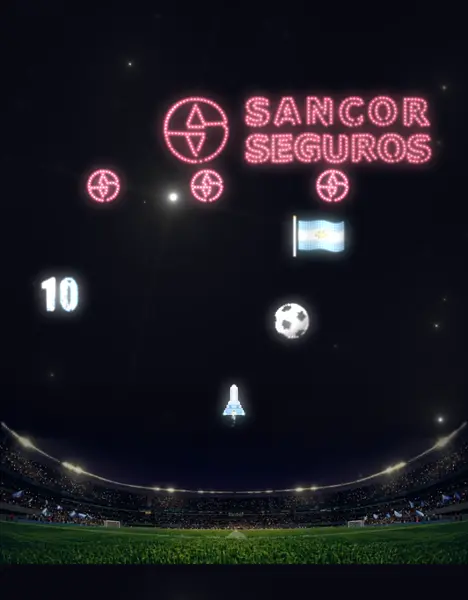
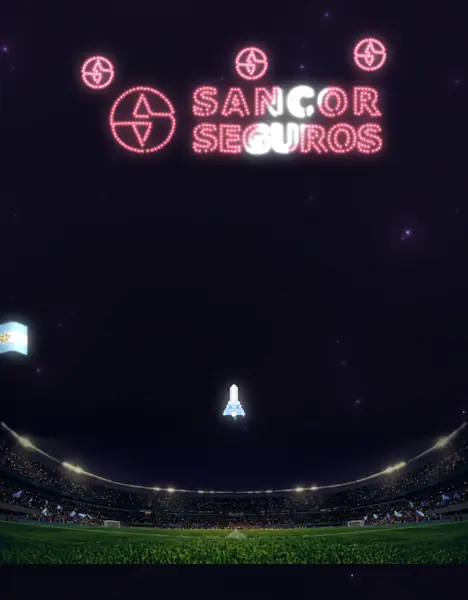
Cielo por dificultad: 5 tramos de color (blanco, celeste, violeta, naranja, rojo) con glow, densidad, velocidad y titileo graduales; sin flares; capturas de niveles actualizadas
Claude-Session: https://claude.ai/code/session_016QSMpeYCF8eRxitQgLEdpS

diff --git a/index.html b/index.html
@@ -683,6 +683,9 @@ uniform float uMouseActiveFactor;
 uniform float uAutoCenterRepulsion;
 uniform bool uTransparent;
 uniform float uLightMode;
+uniform vec3 uTint;
+uniform float uTintMix;
+uniform float uHaze;
 
 varying vec2 vUv;
 
@@ -741,8 +744,7 @@ vec3 StarLayer(vec2 uv) {
       vec2 si = id + vec2(float(x), float(y));
       float seed = Hash21(si);
       float size = fract(seed * 345.32);
-      float glossLocal = tri(uStarSpeed / (PERIOD * seed + 1.0));
-      float flareSize = smoothstep(0.9, 1.0, size) * glossLocal;
+      float flareSize = 0.0; // sin destellos en cruz (flares)
 
       float red = smoothstep(STAR_COLOR_CUTOFF, 1.0, Hash21(si + 1.0)) + STAR_COLOR_CUTOFF;
       float blu = smoothstep(STAR_COLOR_CUTOFF, 1.0, Hash21(si + 3.0)) + STAR_COLOR_CUTOFF;
@@ -754,6 +756,7 @@ vec3 StarLayer(vec2 uv) {
       float sat = length(base - vec3(dot(base, vec3(0.299, 0.587, 0.114)))) * uSaturation;
       float val = max(max(base.r, base.g), base.b);
       base = hsv2rgb(vec3(hue, sat, val));
+      base = mix(base, uTint * (0.8 + 0.5 * val), uTintMix);
 
       vec2 pad = vec2(tris(seed * 34.0 + uTime * uSpeed / 10.0), tris(seed * 38.0 + uTime * uSpeed / 30.0)) - 0.5;
 
@@ -807,6 +810,8 @@ void main() {
     col += StarLayer(uv * scale + i * 453.32) * fade;
   }
 
+  col += uTint * uHaze * smoothstep(0.2, 1.0, vUv.y); // bruma del color del tramo, más fuerte arriba
+
   if (uLightMode > 0.5) {
     float energy = max(max(col.r, col.g), col.b);
     float coverage = clamp(smoothstep(0.0, 0.42, energy) * 0.92, 0.0, 0.92);
@@ -840,7 +845,7 @@ if (gl) {
     const U = n => gl.getUniformLocation(prog, n);
     galaxy = { u: {} };
     ['uTime','uResolution','uFocal','uRotation','uStarSpeed','uDensity','uHueShift','uSpeed','uMouse','uGlowIntensity','uSaturation','uMouseRepulsion',
-     'uTwinkleIntensity','uRotationSpeed','uRepulsionStrength','uMouseActiveFactor','uAutoCenterRepulsion','uTransparent','uLightMode'].forEach(n => galaxy.u[n] = U(n));
+     'uTwinkleIntensity','uRotationSpeed','uRepulsionStrength','uMouseActiveFactor','uAutoCenterRepulsion','uTransparent','uLightMode','uTint','uTintMix','uHaze'].forEach(n => galaxy.u[n] = U(n));
     gl.uniform2f(galaxy.u.uFocal, .5, .5); gl.uniform2f(galaxy.u.uRotation, 1, 0);
     gl.uniform1f(galaxy.u.uDensity, .4); gl.uniform1f(galaxy.u.uSpeed, .1); gl.uniform1f(galaxy.u.uGlowIntensity, .1);
     gl.uniform1f(galaxy.u.uSaturation, 0); gl.uniform1i(galaxy.u.uMouseRepulsion, 0); gl.uniform1f(galaxy.u.uTwinkleIntensity, 1);
@@ -850,6 +855,15 @@ if (gl) {
 }
 addEventListener('pointermove', e => { if (state !== 'menu') return; /* el mouse solo mueve el Galaxy en el menú, no en los niveles */ /* Galaxy sin interacción con el mouse */ }, { passive: true });
 document.addEventListener('mouseleave', () => { galaxyState.targetActive = 0; });
+// Cielo por dificultad: 5 tramos de 4 niveles (blanco → celeste → violeta → naranja → rojo). Cambia suave entre tramos.
+const SKY = [
+  { tint: [1, 1, 1],      mix: 0, glow: .1,  speed: .1,  star: 1,   twinkle: 1,    density: .3,  haze: 0 },
+  { tint: [.4, .78, 1],   mix: 1, glow: .125, speed: .12, star: 1.4, twinkle: 1,    density: .325, haze: .05 },
+  { tint: [.7, .45, 1],   mix: 1, glow: .15, speed: .14, star: 1.8, twinkle: 1.1,  density: .35, haze: .06 },
+  { tint: [1, .55, .15],  mix: 1, glow: .175, speed: .17, star: 2.3, twinkle: 1.25, density: .375, haze: .07 },
+  { tint: [1, .18, .15],  mix: 1, glow: .2, speed: .2,  star: 3,   twinkle: 1.45, density: .4, haze: .09 }];
+const skyNow = { ...SKY[0], tint: [...SKY[0].tint] }; let skyStarT = 0, skyLastT = 0;
+const skyTier = () => state === 'menu' ? 0 : Math.min(4, Math.floor((Math.max(1, wave) - 1) / 4));
 let perf = 0; // calidad: 0 normal, 1 sin bloom y fondo a menos fps, 2 además resolución menor
 function resizeBg() {
   const cw0 = bgc.clientWidth || 1, ch0 = bgc.clientHeight || 1, d = Math.min(devicePixelRatio || 1, 1, Math.sqrt((perf ? 3.5e5 : 6.5e5) / (cw0 * ch0))); // el shader es lo más caro: se dibuja a menor resolución
@@ -860,7 +874,14 @@ addEventListener('resize', resizeBg); resizeBg();
 function drawBg(t) {
   if (!galaxy) return;
   const gs = galaxyState; gs.mouse[0] += (gs.target[0] - gs.mouse[0]) * .05; gs.mouse[1] += (gs.target[1] - gs.mouse[1]) * .05; gs.active += (gs.targetActive - gs.active) * .05;
-  gl.uniform1f(galaxy.u.uTime, t); gl.uniform1f(galaxy.u.uStarSpeed, t * .01);
+  const sk = SKY[skyTier()], dt = Math.min(.25, Math.max(0, t - skyLastT)), k = 1 - Math.exp(-dt * 1.5); skyLastT = t; // transición de ~2 s entre tramos
+  for (const n of ['mix', 'glow', 'speed', 'star', 'twinkle', 'density', 'haze']) skyNow[n] += (sk[n] - skyNow[n]) * k;
+  for (let i = 0; i < 3; i++) skyNow.tint[i] += (sk.tint[i] - skyNow.tint[i]) * k;
+  skyStarT += dt * .01 * skyNow.star;
+  gl.uniform3f(galaxy.u.uTint, skyNow.tint[0], skyNow.tint[1], skyNow.tint[2]); gl.uniform1f(galaxy.u.uTintMix, skyNow.mix); gl.uniform1f(galaxy.u.uHaze, skyNow.haze);
+  gl.uniform1f(galaxy.u.uGlowIntensity, skyNow.glow); gl.uniform1f(galaxy.u.uSpeed, skyNow.speed);
+  gl.uniform1f(galaxy.u.uTwinkleIntensity, skyNow.twinkle); gl.uniform1f(galaxy.u.uDensity, skyNow.density);
+  gl.uniform1f(galaxy.u.uTime, t); gl.uniform1f(galaxy.u.uStarSpeed, skyStarT);
   gl.uniform1f(galaxy.u.uHueShift, galaxyState.hue);
   gl.uniform2f(galaxy.u.uMouse, galaxyState.mouse[0], galaxyState.mouse[1]);
   gl.uniform1f(galaxy.u.uMouseActiveFactor, galaxyState.active);
